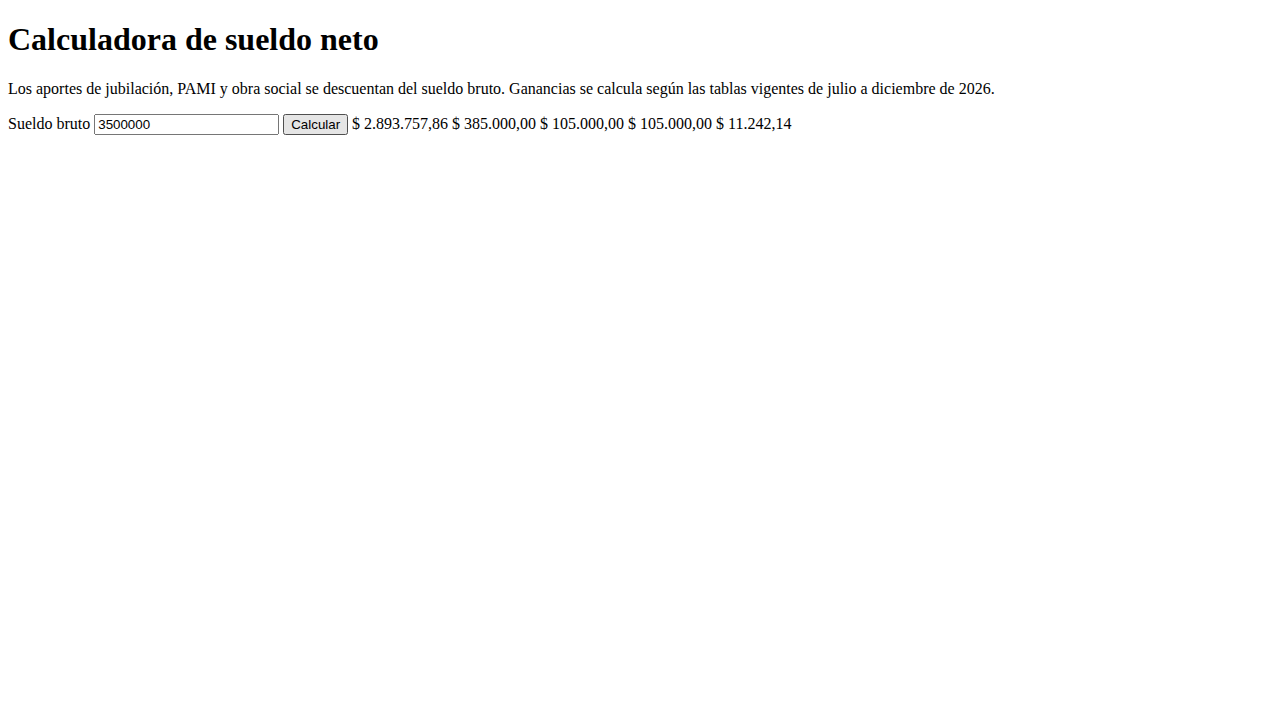
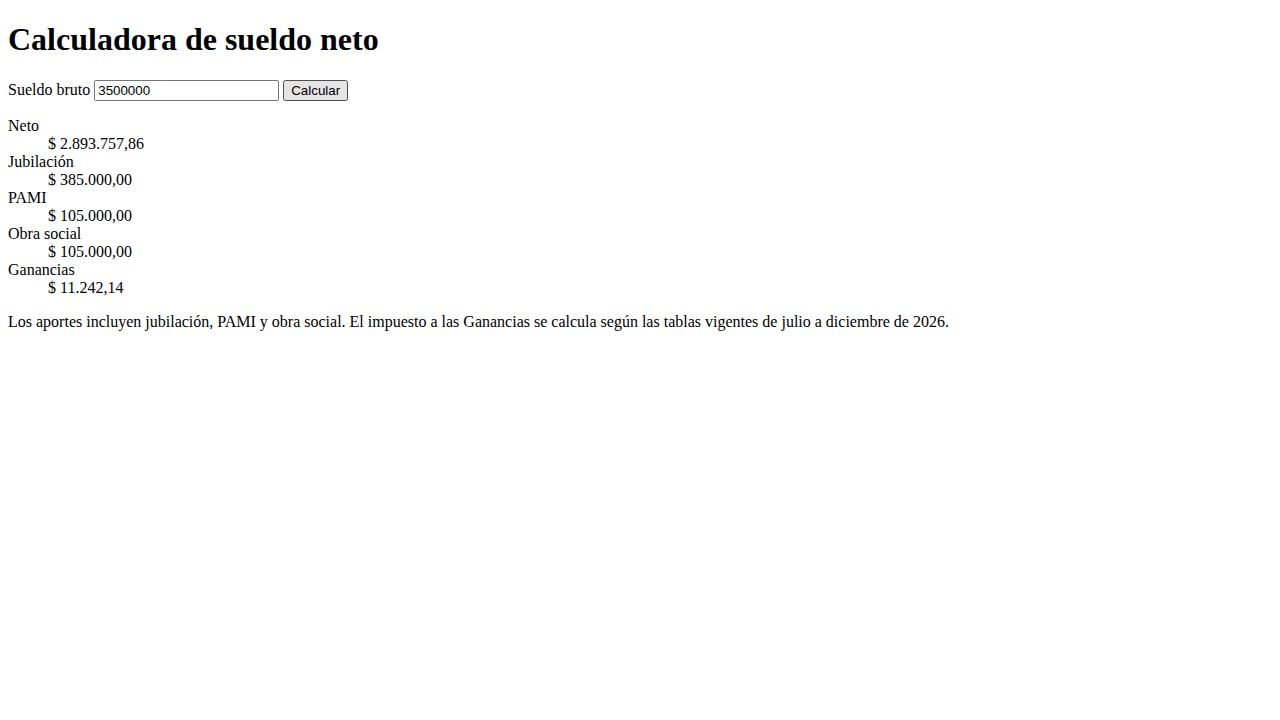
builder-e2e: F2 rearmado desde cero con test_R5 (desglose con etiquetas, verde)

Changed region(s): [[0.0, 0.0917, 0.7812, 0.4583]]

diff --git a/.scratch/builder-e2e/map.md b/.scratch/builder-e2e/map.md
@@ -15,20 +15,21 @@ Detalle completo: `brainstorms/2026-10-14-builder-e2e-destino.md`.
 
 ## Estado del destino (2026-10-16)
 
-Corrida final tras los seis oks del walkthrough: `~/Proyectos/F2-seo-calculadoras/f2-sueldo-neto` (repo local).
+Corrida final tras los seis oks del walkthrough, rearmada con `test_R5` en el contrato: `~/Proyectos/F2-seo-calculadoras/f2-sueldo-neto` (repo local). La corrida previa sin etiquetas quedó en `.fallidas/f2-sueldo-neto-2-sin-etiquetas`.
 
 | Condición | Estado |
 |---|---|
 | 1. Capa computable verde | Cumplida: 3 módulos built, integración verde (casos ocultos, metamórficas, consola, red, axe, Lighthouse, metadatos). |
 | 2. Dos paradas y menos de 1 h del usuario | Parada 1 hecha (walkthrough). Parada 2 pendiente (preview). Las horas no se miden: `human_interventions` sigue en 0. |
-| 3. APIs < US$5 | Cumplida: ~US$0,17 de DeepSeek; planner Sonnet ~US$0,16 equiv. de cupo; Haiku US$0,002. |
+| 3. APIs < US$5 | Cumplida: ~US$0,07 de DeepSeek en la corrida rearmada (~US$0,17 en la previa); planner Sonnet ~US$0,16 equiv. de cupo; Haiku US$0,002. |
 | 4. Run-log completo | Parcial: coder sorteado, rechazos y cupo sí; USD por run no (`orchestration-gkw`); horas del usuario no. |
-| 5. Juez en sombra con rúbricas | Texto sí: prefiere la referencia prototipo-04 en los dos órdenes (desglose sin etiquetas en el final). Visual no: GLM sin saldo. |
+| 5. Juez en sombra con rúbricas | Texto sí: prefiere prototipo-04 en los dos órdenes, también tras el rearmado con etiquetas; el log no guarda el motivo. Visual no: GLM sin saldo. |
 
 Hallazgos de la corrida final:
 
 - Bug del SDLC arreglado: `_LANG_NAMES` no conocía `.html`, así que el coder recibía `index.html` como "programador TypeScript" y escribía TypeScript adentro. Primer intento fallido guardado en `~/Proyectos/F2-seo-calculadoras/.fallidas/`.
 - El juez detectó un defecto real que la capa computable no exigía: el desglose sin etiquetas. Ya es computable: `test_R5_desglose_con_etiquetas` en el contrato del módulo 3 pasa en prototipo-04 y falla en el sitio final, igual que la opinión del juez.
+- El rearmado desde cero con `test_R5` salió verde: m1 Haiku, m2 y m3 DeepSeek, 0 rechazos, 8,5 min. El sitio muestra cada monto con su etiqueta.
 
 ## Notes
 
